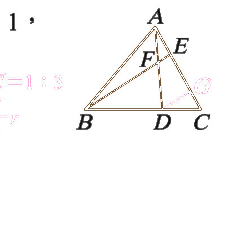
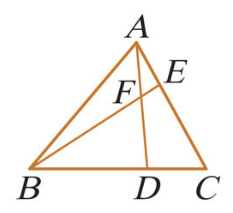
feat: update 3 math geometry question diagrams & move to 2026-09-28 review list (v180)

diff --git a/js/data.js b/js/data.js
@@ -3,7 +3,7 @@
  * Manages wrong questions, Ebbinghaus repetition states, tree structure, seed datasets.
  */
 
-const STORAGE_KEY = 'miley_wrong_questions_v179';
+const STORAGE_KEY = 'miley_wrong_questions_v180';
 
 // Initial Seed Data - Multi-Subject Multi-Week Dataset for Miley
 const INITIAL_SEED_DATA = [
@@ -5993,12 +5993,12 @@ const INITIAL_SEED_DATA = [
     "subject": "數學",
     "errorReason": "觀念不懂",
     "concept": "三角形過頂點輔助平行線與截線段比例計算",
-    "uploadDate": "2026-09-23",
-    "mondayDate": "2026-09-21",
+    "uploadDate": "2026-10-02",
+    "mondayDate": "2026-09-28",
     "mondayDates": [
-      "2026-09-21"
+      "2026-09-28"
     ],
-    "weekLabel": "2026-09-21 (最新週次)",
+    "weekLabel": "2026-09-28 (最新週次)",
     "isGuessedOrUnstable": true,
     "mistakeNote": "【破題關鍵輔助線】：當圖形中無直接平行線時，過點 B 作線段 BG 平行 DF，即可建立兩個相似三角形（△EBG 與 △ACD），利用比例傳遞連比求解！",
     "stem": "如圖，線段 AB : BC ＝ 線段 EF : BF ＝ 3 : 1，則線段 CD : DE ＝ ？\n\n○ (A) 2 : 7\n○ (B) 3 : 5\n○ (C) 3 : 7\n○ (D) 4 : 9",
@@ -6049,12 +6049,12 @@ const INITIAL_SEED_DATA = [
     "subject": "數學",
     "errorReason": "觀念不懂",
     "concept": "三角形內分線交點比例與過頂點作平行輔助線",
-    "uploadDate": "2026-09-23",
-    "mondayDate": "2026-09-21",
+    "uploadDate": "2026-10-02",
+    "mondayDate": "2026-09-28",
     "mondayDates": [
-      "2026-09-21"
+      "2026-09-28"
     ],
-    "weekLabel": "2026-09-21 (最新週次)",
+    "weekLabel": "2026-09-28 (最新週次)",
     "isGuessedOrUnstable": true,
     "mistakeNote": "【交點線段比經典輔助線】：過 D 點作線段 DG 平行 BE 交 AC 於 G 點，利用 △BCE 算出線段 DG 長度比例，再移至 △ADG 計算線段 AF 與 AD 之比！",
     "stem": "如圖，在 △ABC 中，線段 AD 與 BE 相交於 F 點。若線段 BD : CD ＝ 2 : 1，線段 BF : EF ＝ 6 : 1，則線段 AF : DF ＝ ？\n\n○ (A) 2 : 5\n○ (B) 3 : 4\n○ (C) 3 : 5\n○ (D) 4 : 5",
@@ -6077,12 +6077,12 @@ const INITIAL_SEED_DATA = [
     "subject": "數學",
     "errorReason": "觀念不懂",
     "concept": "梯形/對角線三平行線比例性質與相似三角形判定",
-    "uploadDate": "2026-09-23",
-    "mondayDate": "2026-09-21",
+    "uploadDate": "2026-10-02",
+    "mondayDate": "2026-09-28",
     "mondayDates": [
-      "2026-09-21"
+      "2026-09-28"
     ],
-    "weekLabel": "2026-09-21 (最新週次)",
+    "weekLabel": "2026-09-28 (最新週次)",
     "isGuessedOrUnstable": true,
     "mistakeNote": "【沙漏型相似三角形對應邊比例】：平行線 CD // AB 形成 △OAB ～ △OCD。比例式為 OA : OC ＝ OB : OD，交叉交換內項即得 OA : OB ＝ OC : OD！",
     "stem": "如圖，若線段 CD // EF // AB，則下列何者正確？\n\n○ (A) 線段 OD : OC ＝ OE : OF\n○ (B) 線段 CE : DF ＝ EF : CD\n○ (C) 線段 OA : OB ＝ OC : OD\n○ (D) 線段 AB : CD ＝ OA : OD",
@@ -6158,7 +6158,8 @@ class DataManager {
 
     let stored = localStorage.getItem(STORAGE_KEY);
     if (stored === null) {
-      stored = localStorage.getItem('miley_wrong_questions_v178') ||
+      stored = localStorage.getItem('miley_wrong_questions_v179') ||
+               localStorage.getItem('miley_wrong_questions_v178') ||
                localStorage.getItem('miley_wrong_questions_v177') ||
                localStorage.getItem('miley_wrong_questions_v176') ||
                localStorage.getItem('miley_wrong_questions_v175') ||

diff --git a/index.html b/index.html
@@ -1189,17 +1189,17 @@
 
 
   <!-- Main JavaScript App Modules -->
-  <script src="js/data.js?v=179"></script>
-  <script src="js/utils/katex_render.js?v=179"></script>
-  <script src="js/utils/pdf_export.js?v=179"></script>
-  <script src="js/modules/upload.js?v=179"></script>
-  <script src="js/modules/archive.js?v=179"></script>
-  <script src="js/modules/review.js?v=179"></script>
-  <script src="js/modules/sprint.js?v=179"></script>
-  <script src="js/modules/analytics.js?v=179"></script>
-  <script src="js/modules/calendar.js?v=179"></script>
-  <script src="js/modules/wisdom.js?v=179"></script>
-  <script src="js/modules/sync.js?v=179"></script>
-  <script src="js/app.js?v=179"></script>
+  <script src="js/data.js?v=180"></script>
+  <script src="js/utils/katex_render.js?v=180"></script>
+  <script src="js/utils/pdf_export.js?v=180"></script>
+  <script src="js/modules/upload.js?v=180"></script>
+  <script src="js/modules/archive.js?v=180"></script>
+  <script src="js/modules/review.js?v=180"></script>
+  <script src="js/modules/sprint.js?v=180"></script>
+  <script src="js/modules/analytics.js?v=180"></script>
+  <script src="js/modules/calendar.js?v=180"></script>
+  <script src="js/modules/wisdom.js?v=180"></script>
+  <script src="js/modules/sync.js?v=180"></script>
+  <script src="js/app.js?v=180"></script>
 </body>
 </html>

diff --git a/sw.js b/sw.js
@@ -1,4 +1,4 @@
-const CACHE_NAME = 'miley-pwa-cache-v1.45';
+const CACHE_NAME = 'miley-pwa-cache-v1.46';
 
 const ASSETS_TO_CACHE = [
   './',

diff --git a/Checkpoints.md b/Checkpoints.md
@@ -4,6 +4,20 @@
 - **GitHub 倉庫**：https://github.com/b0987498500-ops/Miley-wrong-book
 - **線上網站網址 (GitHub Pages)**：https://b0987498500-ops.github.io/Miley-wrong-book/
 
+## [v1.68] - 2026-10-02 (更新 3 道數學幾何錯題示意圖為清晰原圖，並移至 2026-09-28 本週複習隊列，升級題庫數據庫至 v180)
+- **類型**：錯題圖片替換 / 幾何圖形高清重製 / 隊列週次遷移 (2026-09-21 ➔ 2026-09-28) / 數據庫升級 v180
+- **主要變更**：
+  1. **替換 3 道數學幾何錯題之圖片為超高清晰度原圖**：
+     - **第 9 題 (`q_math_triangle_parallel_segment_ratio_091`)**：替換圖一（粉紅線條三角形 EBC/ACD 與交點 F）高清去邊界圖。
+     - **第 10 題 (`q_math_triangle_cevian_intersection_ratio_093`)**：替換圖二（棕色線條三角形 ABC 與交線 AD, BE 交於 F）高清去邊界圖。
+     - **第 11 題 (`q_math_trapezoid_parallel_lines_ratio_094`)**：替換圖三（橘色線條沙漏/梯形平行線 CD // EF // AB 交於 O）高清去邊界圖。
+  2. **將 3 道題目自 `2026-09-21` 週次移至 `2026-09-28` (本週) 錯題複習隊列**：
+     - 將 `mondayDate` 與 `mondayDates` 更新為 `2026-09-28`，`weekLabel` 更新為 `2026-09-28 (最新週次)`，確保點擊本週錯題時能優先進行複習。
+  3. **數據庫與快取連動**：
+     - 升級 `STORAGE_KEY` 至 `v180`，`sw.js` 快取版本更新至 `v1.46`，`index.html` 資源 query param 更新至 `v=180`。
+
+---
+
 ## [v1.67] - 2026-10-02 (自動收錄 5 道中國地理錯題：胡煥庸線、雲南普洱咖啡熱帶氣候、新疆棉花灌溉設施與作物性狀生長條件，升級題庫數據庫至 v179)
 - **類型**：錯題自動收錄 / 社會地理中國區域發展與農作物分布 / 高清地圖裁切去痕 / 零奇怪符號純淨排版 / 數據庫升級 v179
 - **主要變更**：
